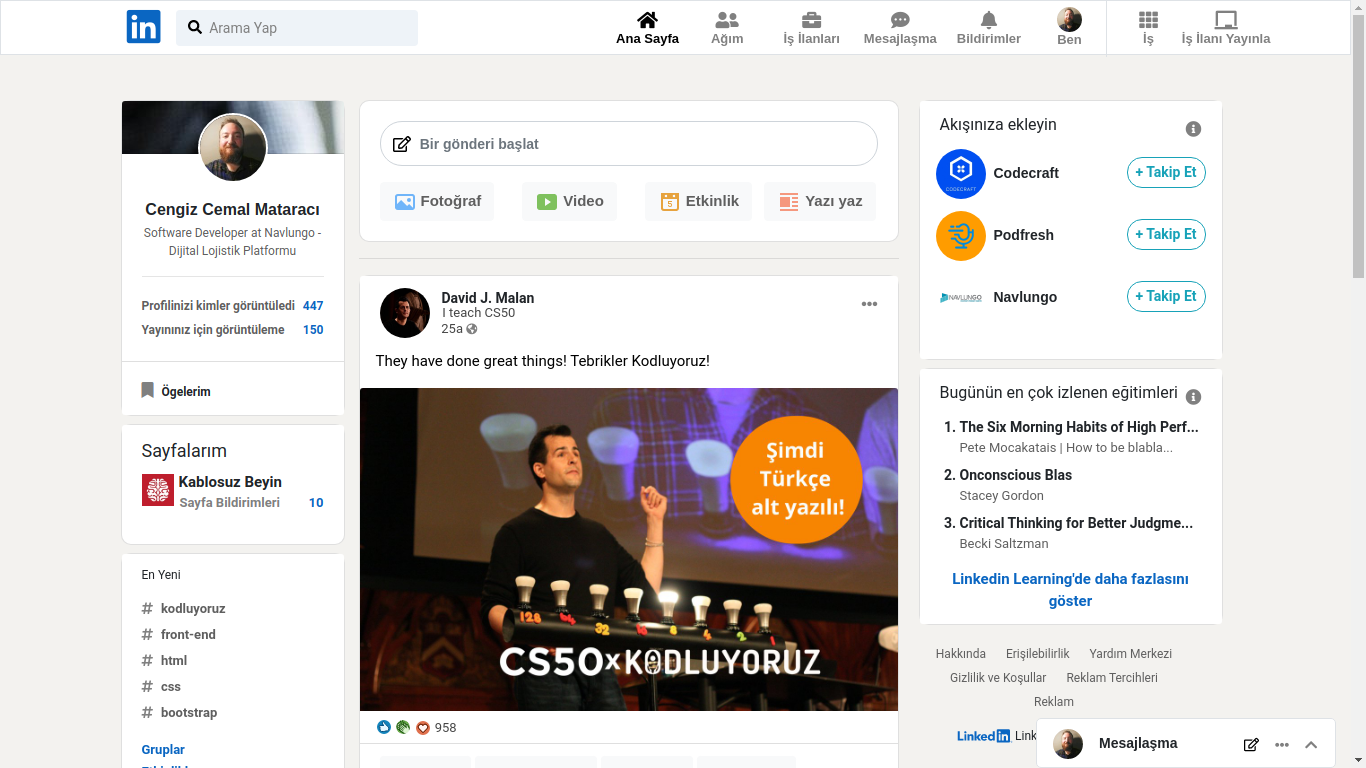
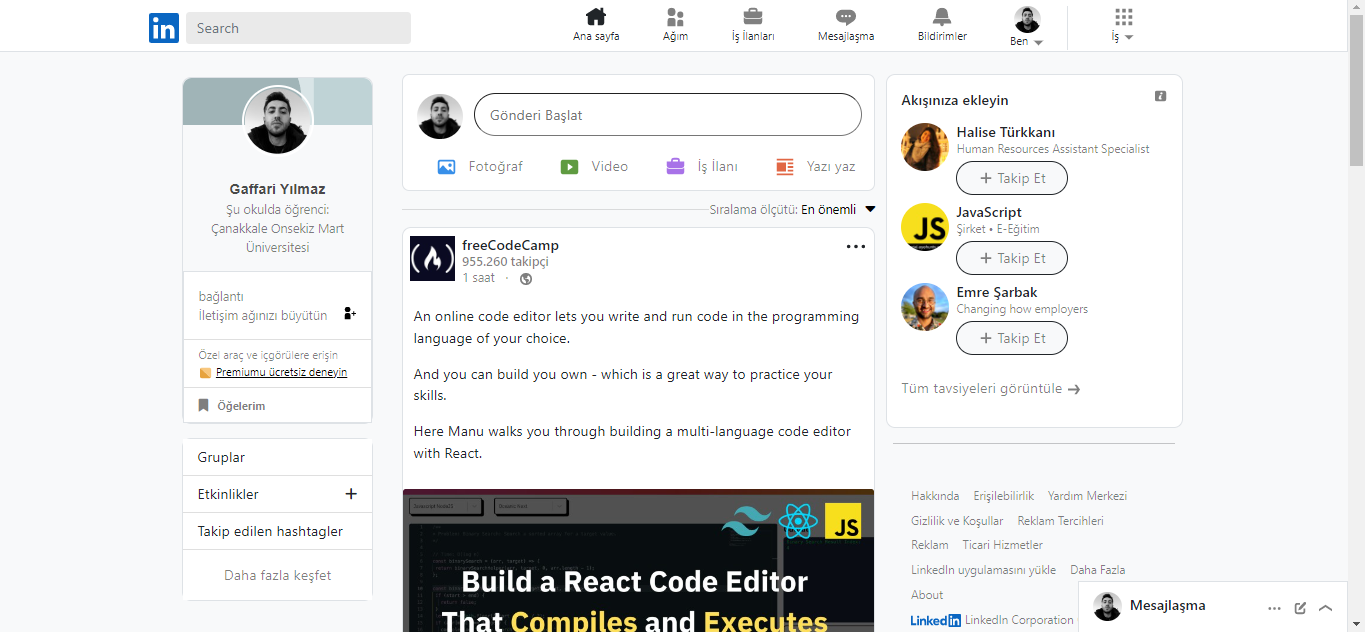
readme düzenlendi

diff --git a/README.md b/README.md
@@ -1,0 +1,9 @@
+# Linkedin Home pageclone
+# Likedin Ana sayfa klonu
+
+---
+
+Linkedin ana sayfasını klonlamaya çalıştım.
+
+![görsel](/images/linkedin.png)
+
